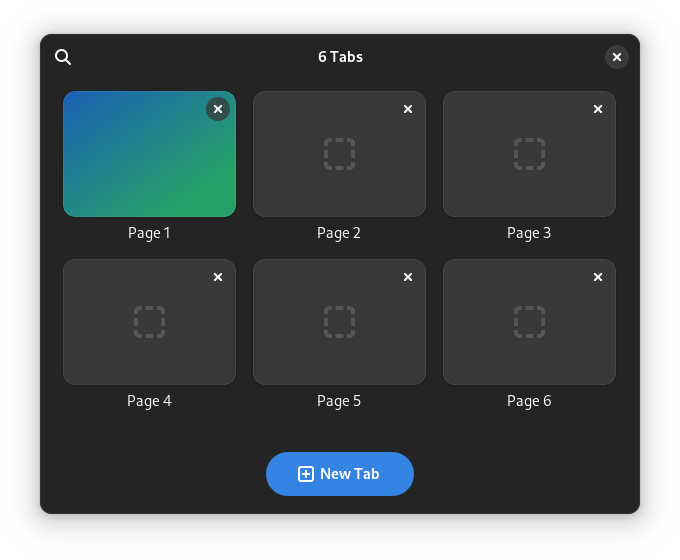
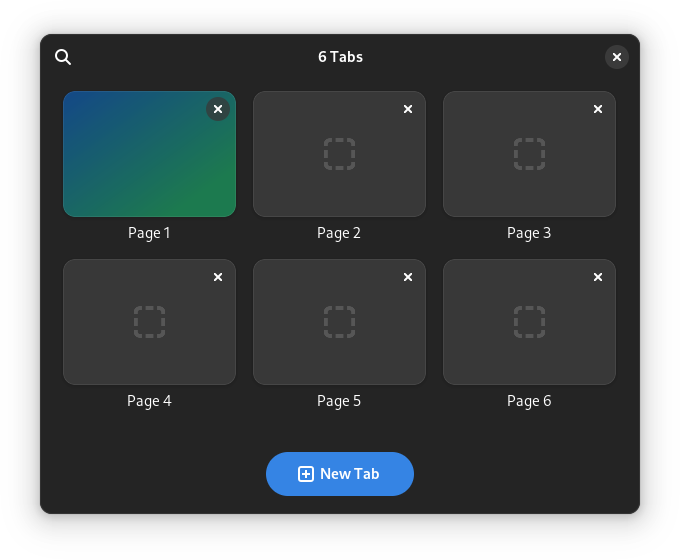
doc: Tone down dark tab overview page bg

Changed region(s): [[0.0926, 0.1518, 0.3706, 0.3946]]

diff --git a/doc/tools/style-dark.css b/doc/tools/style-dark.css
@@ -1,3 +1,4 @@
 .overview-tab-page {
-  background: linear-gradient(to bottom right, @blue_5, @green_5 80%);
+  background: image(alpha(black, .25)),
+              linear-gradient(to bottom right, @blue_5, @green_5 80%);
 }
